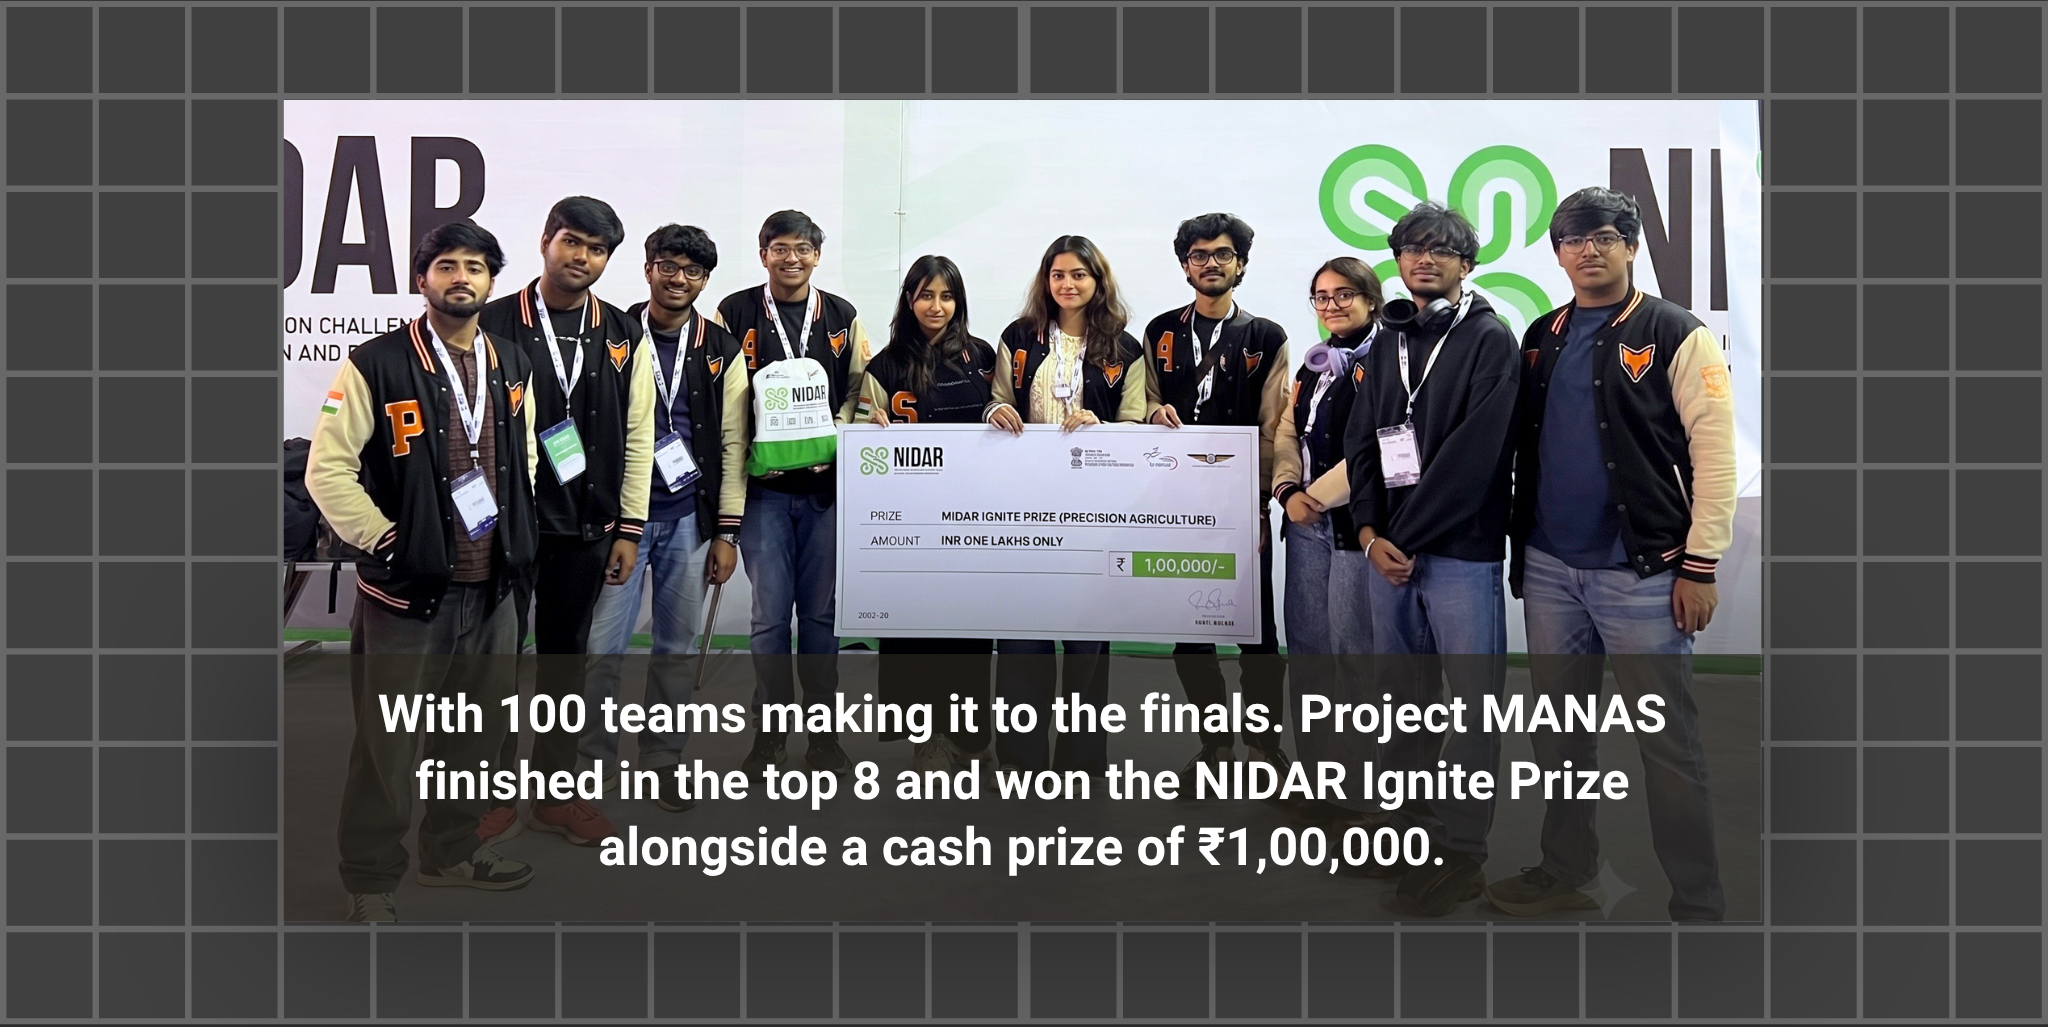
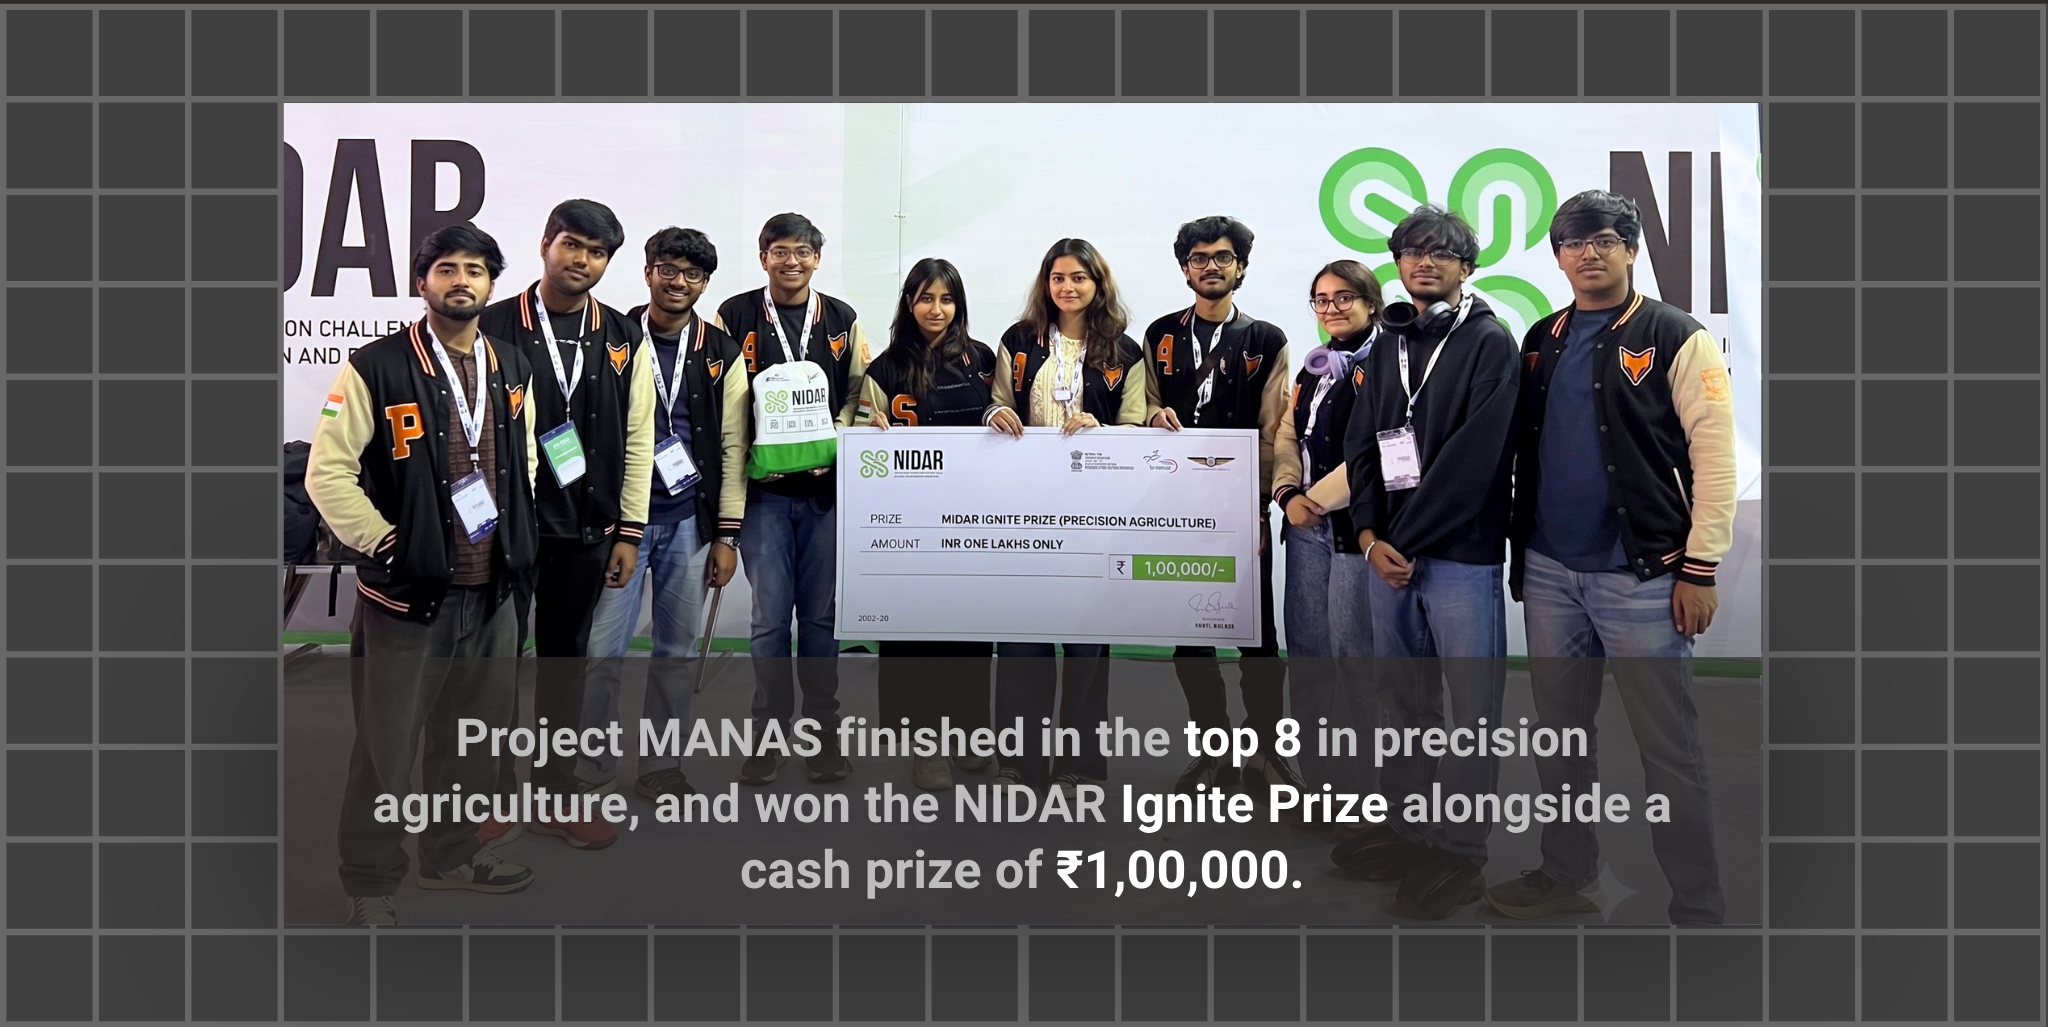
igvc first draft

diff --git a/october_2026/index.html b/october_2026/index.html
@@ -12,7 +12,7 @@
 
 <script>
 const cfg = {
-  base: "https://michelle-maria-andrade.github.io/manas_newsletter/october_2026/",
+  base: "",
   imgs: {
     team:      "pictures/team.png",
     nidar:     "pictures/nidar_anchor.png",
@@ -21,7 +21,13 @@ const cfg = {
 
     nidarheader: "pictures/nidar_header.png",
     nidardrones: "pictures/nidar_drones.png",
-    nidarfinish: "pictures/nidar_finish.png"
+    nidarfinish: "pictures/nidar_finish.png",
+
+    igvcheader: "pictures/igvc_header.png",
+    igvcwheels: "pictures/igvc_wheels.png",
+    igvcgif:    "pictures/igvc_vid.gif",
+    igvcnote:   "pictures/igvc_note.png",
+    igvcfinish:"pictures/igvc_finish.png"
   },
 
   links: { nidar: "#nidar", igvc: "#igvc", fixedwing: "#fixedwing" }
@@ -107,6 +113,48 @@ const cfg = {
   <tr>
     <td style="padding:0; line-height:0; font-size:0;">
       <img data-img="nidarfinish" alt="With 100 teams making it to the finals, Project MANAS finished in the top 8 and won the NIDAR Ignite Prize alongside a cash prize of ₹1,00,000." width="600"
+           style="display:block; width:100%; max-width:600px; height:auto; border:0;">
+    </td>
+  </tr>
+
+  <!-- igvc -->
+  <tr>
+    <td style="padding:0; line-height:0; font-size:0;">
+      <a id="igvc" name="igvc"></a>
+      <img data-img="igvcheader" alt="IGVC" width="600"
+           style="display:block; width:100%; max-width:600px; height:auto; border:0;">
+    </td>
+  </tr>
+  <tr>
+    <td style="padding:20px 20px 8px 20px; background:#2e2a27; color:#ffffff; font-family:Tahoma, 'Trebuchet MS', Arial, sans-serif; font-size:15px; line-height:1.5; text-align:justify;">
+      <p style="margin:0 0 10px 0;">The Intelligent Ground Vehicle Competition (IGVC) estd. in 1993 by Oakland University has grown into one of the biggest international events for autonomous vehicles. This year's edition ran from May 29th through June 1st. There are three tracks teams get scored on: AutoNav, Self-Drive, and the design challenge.</p>
+    </td>
+  </tr>
+  <tr>
+    <td style="padding:0; line-height:0; font-size:0; background:#2e2a27;">
+      <img data-img="igvcwheels" alt="We tucked the motors directly into the wheel hubs rather than mounting them separately. The wheels were 3D-printed in three layers: a mild-steel rim on the inside, PLA in the middle, and a flexible TPU layer on the outside. This year marked the first time Project MANAS successfully built a four-wheel holonomic bot. The direction of ALYX has nothing to do with the direction it actually moves in. The drives produce a true zero turning radius, accurate to 1 - 2 cm of the vehicles center point." width="600"
+           style="display:block; width:100%; max-width:600px; height:auto; border:0;">
+    </td>
+  </tr>
+  <tr>
+    <td style="padding:0; background:#2e2a27;">
+      <table role="presentation" width="600" cellpadding="0" cellspacing="0" border="0" style="width:600px; max-width:100%;">
+        <tr>
+          <td width="244" valign="top" style="width:244px; padding:2px 0 20px 18px; line-height:0; font-size:0;">
+            <img data-img="igvcgif" alt="Self-drive run in the simulated urban environment" width="217"
+                 style="display:block; width:217px; height:auto; border:0;">
+          </td>
+          <td width="356" valign="top" style="width:356px; padding:0px 2px 20px 19px; line-height:0; font-size:0;">
+            <img data-img="igvcnote" alt="This year also marked the first time Project MANAS qualified for the self-drive portion of the challenge; a simulated urban environment, where you have to stay within as well as change lanes, stop at signs, dodge pedestrians and obstacles and manage full parking manoeuvres." width="316"
+                 style="display:block; width:316px; height:auto; border:0;">
+          </td>
+        </tr>
+      </table>
+    </td>
+  </tr>
+  <tr>
+    <td style="padding:0; line-height:0; font-size:0;">
+      <img data-img="igvcfinish" alt="Project MANAS achieved the 2nd Top Performer Award, which came with a $1,500 cash prize, 4th Place in the Self-Drive Grand Award, and 7th Place in the Auto-Nav Challenge. This made Project MANAS the highest-ranked Indian team at the competition, out of 24 international entries." width="600"
            style="display:block; width:100%; max-width:600px; height:auto; border:0;">
     </td>
   </tr>
